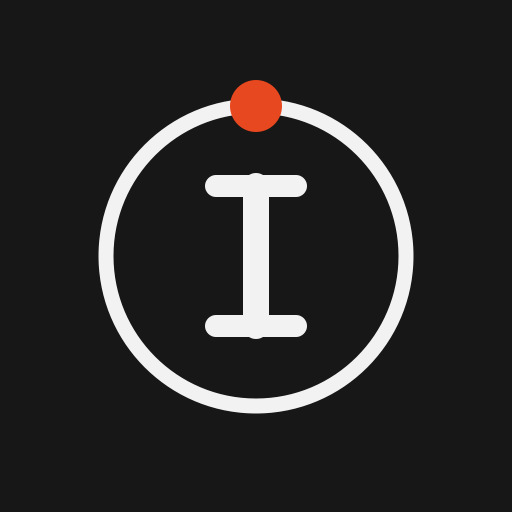
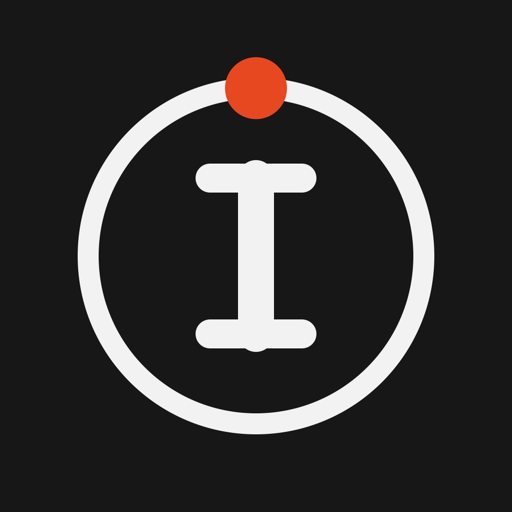
fix(mobile): ikon aplikasi + perbaikan tata letak yang terpotong
Ikon
- Ikon peluncur Android masih bawaan Capacitor (latar putih). Diganti set
  lengkap dari desain/ikon-*.svg: lima kepadatan untuk ic_launcher dan
  ic_launcher_round (48-192 px) plus ic_launcher_foreground (108-432 px)
- Adaptive icon: latar jadi #171717, lapisan depan muat di zona aman 66,7%
  sehingga tidak terpotong peluncur berbentuk apa pun
- Vektor bawaan Capacitor dihapus; ikon PWA, apple-touch-icon, dan favicon
  Next diregenerasi dari master yang sama

Tata letak terpotong
- Bilah atas setinggi 80 px sementara ruang yang disediakan hanya 71 px,
  jadi bagian atas halaman tersembunyi di baliknya. Tingginya sekarang
  dipatok lewat --bilah (56 px ponsel, 72 px desktop) dan ruangnya memakai
  nilai yang sama, plus env(safe-area-inset-top) untuk ponsel berponi
- Halaman meluber ke samping di ponsel: dokumen 587 px pada layar 390 px.
  Sebabnya anak grid punya min-width auto, sehingga kolom melebar mengikuti
  grafik tren yang min-w-[520px] dan overflow-x-auto di dalamnya tidak pernah
  menggulir. Sebelas kolom dan enam section diberi min-w-0
- Bilah ukur w-24 mengecil jadi w-14 di layar sempit; grafik turun ke
  min-w-[460px]

Terverifikasi pada 390 px: sebelas rute tanpa luberan dan tanpa bagian atas
tertutup; /pemkot juga bersih di 320 px. APK dibangun ulang, 7,7 MB.

Claude-Session: https://claude.ai/code/session_01UByx4z4AmXC2FbrQxF1zhg

diff --git a/src/app/(utama)/pemkot/page.tsx b/src/app/(utama)/pemkot/page.tsx
@@ -136,7 +136,7 @@ export default function HalamanPemkot() {
         </div>
 
         <div className="grid gap-10 lg:grid-cols-[1.35fr_1fr]">
-          <section className="flex flex-col gap-4">
+          <section className="flex min-w-0 flex-col gap-4">
             <JudulBagian
               eyebrow="Sebaran geografis"
               judul="Peta pembinaan per kecamatan"
@@ -151,8 +151,8 @@ export default function HalamanPemkot() {
             </CatatanDemo>
           </section>
 
-          <div className="flex flex-col gap-10">
-            <section className="flex flex-col gap-4">
+          <div className="flex min-w-0 flex-col gap-10">
+            <section className="flex min-w-0 flex-col gap-4">
               <JudulBagian
                 eyebrow="Peringkat"
                 judul="Delapan kecamatan teratas"
@@ -179,7 +179,7 @@ export default function HalamanPemkot() {
               </Kartu>
             </section>
 
-            <section className="flex flex-col gap-4">
+            <section className="flex min-w-0 flex-col gap-4">
               <JudulBagian eyebrow="Kohort" judul="Jenjang usia" />
               <div className="grid grid-cols-3 gap-px border border-white/10 bg-white/10">
                 {kohort.map(({ g, n, putri }) => (
@@ -206,7 +206,7 @@ export default function HalamanPemkot() {
         </div>
 
         <div className="grid gap-10 lg:grid-cols-2">
-          <section className="flex flex-col gap-4">
+          <section className="flex min-w-0 flex-col gap-4">
             <JudulBagian
               eyebrow="Radar bakat"
               judul="Laju perbaikan tercepat"
@@ -253,7 +253,7 @@ export default function HalamanPemkot() {
             </CatatanDemo>
           </section>
 
-          <section className="flex flex-col gap-4">
+          <section className="flex min-w-0 flex-col gap-4">
             <JudulBagian
               eyebrow="Perguruan"
               judul="Medali bersistem per perguruan"
@@ -278,7 +278,7 @@ export default function HalamanPemkot() {
                       {p.jumlahAnggota} anggota
                     </span>
                   </div>
-                  <div className="h-1.5 w-24 bg-ink-500">
+                  <div className="h-1.5 w-14 shrink-0 bg-ink-500 sm:w-24">
                     <div
                       className="h-full bg-aksen"
                       style={{
@@ -295,9 +295,9 @@ export default function HalamanPemkot() {
           </section>
         </div>
 
-        <section className="flex flex-col gap-4">
+        <section className="flex min-w-0 flex-col gap-4">
           <JudulBagian eyebrow="Penyelenggaraan" judul="Event tahun berjalan" />
-          <Kartu className="hidden overflow-x-auto sm:block">
+          <Kartu className="hidden min-w-0 overflow-x-auto sm:block">
             <table className="w-full min-w-[640px] text-left">
               <thead>
                 <tr className="border-b border-white/10">

diff --git a/src/app/(utama)/panitia/page.tsx b/src/app/(utama)/panitia/page.tsx
@@ -128,7 +128,7 @@ export default function HalamanPanitia() {
       </header>
 
       <div className="inner grid gap-10 lg:grid-cols-[1.4fr_1fr]">
-        <div className="flex flex-col gap-8">
+        <div className="flex min-w-0 flex-col gap-8">
           <Kartu
             warna={luring ? "bg-amber-400/5" : "bg-ink-700"}
             className={`flex flex-wrap items-center justify-between gap-3 p-4 ${luring ? "border-amber-400/40" : ""}`}
@@ -178,7 +178,7 @@ export default function HalamanPanitia() {
             ))}
           </div>
 
-          <section className="flex flex-col gap-4">
+          <section className="flex min-w-0 flex-col gap-4">
             <JudulBagian
               eyebrow={labelKategori(arena.kategoriAktifId)}
               judul={`Antrian ${arena.nama}`}
@@ -235,8 +235,8 @@ export default function HalamanPanitia() {
           </section>
         </div>
 
-        <div className="flex flex-col gap-8">
-          <section className="flex flex-col gap-4">
+        <div className="flex min-w-0 flex-col gap-8">
+          <section className="flex min-w-0 flex-col gap-4">
             <JudulBagian eyebrow="Semua matras" judul="Sekilas arena" />
             <Kartu className="divide-y divide-white/10">
               {ARENA.map((a) => {
@@ -285,7 +285,7 @@ export default function HalamanPanitia() {
             </Kartu>
           </section>
 
-          <section className="flex flex-col gap-4">
+          <section className="flex min-w-0 flex-col gap-4">
             <JudulBagian eyebrow="Rundown" judul="Jadwal hari ini" />
             <Kartu className="divide-y divide-white/10">
               {ARENA.flatMap((a) =>
@@ -311,7 +311,7 @@ export default function HalamanPanitia() {
             </Kartu>
           </section>
 
-          <section className="flex flex-col gap-4">
+          <section className="flex min-w-0 flex-col gap-4">
             <JudulBagian eyebrow="Meja pendaftaran" judul="Check-in" />
             <div className="grid grid-cols-2 gap-px border border-white/10 bg-white/10">
               <div className="bg-ink-700 p-4">
@@ -340,7 +340,7 @@ export default function HalamanPanitia() {
                   <span className="min-w-0 flex-1 truncate text-[12px] text-paper-dim">
                     {labelKategori(r.kId)}
                   </span>
-                  <div className="h-1.5 w-24 bg-ink-500">
+                  <div className="h-1.5 w-14 shrink-0 bg-ink-500 sm:w-24">
                     <div
                       className="h-full bg-emerald-400"
                       style={{ width: `${(r.hadir / r.total) * 100}%` }}

diff --git a/src/app/(utama)/perguruan/page.tsx b/src/app/(utama)/perguruan/page.tsx
@@ -77,7 +77,7 @@ export default function HalamanPerguruan() {
       </header>
 
       <div className="inner grid gap-10 lg:grid-cols-[1fr_1.6fr]">
-        <div className="flex flex-col gap-10">
+        <div className="flex min-w-0 flex-col gap-10">
           <div className="grid grid-cols-3 gap-px border border-white/10 bg-white/10">
             <div className="bg-ink-700 p-4">
               <Statistik
@@ -103,7 +103,7 @@ export default function HalamanPerguruan() {
             </div>
           </div>
 
-          <section className="flex flex-col gap-4">
+          <section className="flex min-w-0 flex-col gap-4">
             <JudulBagian
               eyebrow="Prestasi perguruan"
               judul="Medali bersistem"
@@ -158,7 +158,7 @@ export default function HalamanPerguruan() {
             </Kartu>
           </section>
 
-          <section className="flex flex-col gap-4">
+          <section className="flex min-w-0 flex-col gap-4">
             <JudulBagian
               eyebrow="Komposisi binaan"
               judul="Kelompok umur & asal"
@@ -201,8 +201,8 @@ export default function HalamanPerguruan() {
           </section>
         </div>
 
-        <div className="flex flex-col gap-10">
-          <section className="flex flex-col gap-4">
+        <div className="flex min-w-0 flex-col gap-10">
+          <section className="flex min-w-0 flex-col gap-4">
             <JudulBagian
               eyebrow="Pendaftaran kolektif"
               judul="Daftarkan binaan ke event"
@@ -224,7 +224,7 @@ export default function HalamanPerguruan() {
             </Kartu>
           </section>
 
-          <section className="flex flex-col gap-4">
+          <section className="flex min-w-0 flex-col gap-4">
             <JudulBagian
               eyebrow="Binaan"
               judul="Anggota aktif"
@@ -268,7 +268,7 @@ export default function HalamanPerguruan() {
             </Kartu>
           </section>
 
-          <section className="flex flex-col gap-4">
+          <section className="flex min-w-0 flex-col gap-4">
             <JudulBagian
               eyebrow="Event aktif"
               judul="Binaan yang terdaftar"
@@ -310,7 +310,7 @@ export default function HalamanPerguruan() {
             </Kartu>
           </section>
 
-          <section className="flex flex-col gap-4">
+          <section className="flex min-w-0 flex-col gap-4">
             <JudulBagian
               eyebrow="Direktori kota"
               judul="Perguruan lain di Palembang"

diff --git a/src/app/(utama)/klasemen/page.tsx b/src/app/(utama)/klasemen/page.tsx
@@ -170,8 +170,8 @@ export default function HalamanKlasemen() {
         </div>
 
         <div className="grid gap-8 lg:grid-cols-[1.6fr_1fr]">
-          <div className="flex flex-col gap-6">
-            <Kartu className="hidden overflow-x-auto sm:block">
+          <div className="flex min-w-0 flex-col gap-6">
+            <Kartu className="hidden min-w-0 overflow-x-auto sm:block">
               <table className="w-full min-w-[560px] text-left">
                 <thead>
                   <tr className="border-b border-white/10">
@@ -277,8 +277,8 @@ export default function HalamanKlasemen() {
             </p>
           </div>
 
-          <div className="flex flex-col gap-8">
-            <section className="flex flex-col gap-4">
+          <div className="flex min-w-0 flex-col gap-8">
+            <section className="flex min-w-0 flex-col gap-4">
               <JudulBagian eyebrow="Atlet" judul="Peraih medali terbanyak" />
               <Kartu className="divide-y divide-white/10">
                 {peraih.map(({ a, emas, total }, i) => (
@@ -309,7 +309,7 @@ export default function HalamanKlasemen() {
                 ))}
               </Kartu>
             </section>
-            <section className="flex flex-col gap-4">
+            <section className="flex min-w-0 flex-col gap-4">
               <JudulBagian eyebrow="Kategori" judul="Medali per kategori" />
               <Kartu className="divide-y divide-white/10">
                 {perKategori.map(({ kId, n }) => (
@@ -327,7 +327,7 @@ export default function HalamanKlasemen() {
                             : ""}
                       </span>
                     </div>
-                    <div className="h-1.5 w-20 bg-ink-500">
+                    <div className="h-1.5 w-12 shrink-0 bg-ink-500 sm:w-20">
                       <div
                         className="h-full bg-aksen"
                         style={{ width: `${(n / perKategori[0].n) * 100}%` }}
@@ -342,7 +342,7 @@ export default function HalamanKlasemen() {
             </section>
           </div>
         </div>
-        <section className="flex flex-col gap-4">
+        <section className="flex min-w-0 flex-col gap-4">
           <JudulBagian
             eyebrow="Dari matras"
             judul="Cuplikan kategori"

diff --git a/src/components/ProfilAtlet.tsx b/src/components/ProfilAtlet.tsx
@@ -181,7 +181,7 @@ export function ProfilAtlet({
   return (
     <main className="flex flex-col gap-10 pb-12">
       <div className="inner grid gap-10 pt-10 lg:grid-cols-[minmax(0,1fr)_minmax(0,1.5fr)]">
-        <div className="flex flex-col gap-8">
+        <div className="flex min-w-0 flex-col gap-8">
           {antrianSaya && arena && eventArena ? (
             <div
               className={`border-2 border-aksen bg-aksen/10 p-6 ${antrianSaya.status === "dipanggil" ? "animate-panggil" : ""}`}
@@ -432,7 +432,7 @@ export function ProfilAtlet({
           </section>
         </div>
 
-        <div className="flex flex-col gap-8">
+        <div className="flex min-w-0 flex-col gap-8">
           <section className="flex flex-col gap-5">
             <JudulBagian eyebrow="Rapor" judul="Tren nilai aspek inti" />
             <Kartu className="p-6">

diff --git a/src/app/globals.css b/src/app/globals.css
@@ -263,3 +263,30 @@ body {
 @media (prefers-reduced-motion: reduce) {
   .footage-gerak { animation: none !important; }
 }
+
+/*
+ * Tinggi bilah atas dipatok, bukan mengikuti isi — sebelumnya bilah 80px
+ * sementara ruang yang disediakan 71px, sehingga bagian atas halaman
+ * tersembunyi di baliknya. Nilai yang sama dipakai bilah dan ruangnya,
+ * plus safe-area untuk ponsel berponi.
+ */
+:root {
+  --bilah: 56px;
+}
+@media (min-width: 768px) {
+  :root { --bilah: 72px; }
+}
+
+.bilah-atas {
+  height: calc(var(--bilah) + env(safe-area-inset-top));
+  padding-top: env(safe-area-inset-top);
+}
+.ruang-bilah {
+  padding-top: calc(var(--bilah) + env(safe-area-inset-top));
+}
+.ruang-nav {
+  padding-bottom: calc(70px + env(safe-area-inset-bottom));
+}
+@media (min-width: 768px) {
+  .ruang-nav { padding-bottom: 0; }
+}

diff --git a/src/components/DemoBar.tsx b/src/components/DemoBar.tsx
@@ -33,8 +33,8 @@ export function DemoBar() {
      * bilah itu sendiri, bukan setinggi layar.
      */
     <>
-      <header className="fixed inset-x-0 top-0 z-50 border-b border-white/10 bg-ink-900/90 backdrop-blur-md">
-        <div className="mx-auto flex max-w-[1440px] items-center gap-4 px-[18px] py-3 sm:px-8 sm:py-[18px]">
+      <header className="bilah-atas fixed inset-x-0 top-0 z-50 border-b border-white/10 bg-ink-900/90 backdrop-blur-md">
+        <div className="mx-auto flex h-full max-w-[1440px] items-center gap-4 px-[18px] sm:px-8">
           <Link
             href="/"
             className="brand flex shrink-0 items-center gap-2.5 text-paper focus-visible:outline-2 focus-visible:outline-offset-4 focus-visible:outline-aksen"

diff --git a/src/app/(utama)/juri/page.tsx b/src/app/(utama)/juri/page.tsx
@@ -142,7 +142,7 @@ export default function HalamanJuri() {
       </header>
 
       <div className="inner grid gap-10 lg:grid-cols-[1fr_1.4fr]">
-        <div className="flex flex-col gap-8">
+        <div className="flex min-w-0 flex-col gap-8">
           <div className="flex gap-2">
             {ARENA.map((a) => (
               <button
@@ -290,7 +290,7 @@ export default function HalamanJuri() {
           </section>
         </div>
 
-        <div className="flex flex-col gap-8">
+        <div className="flex min-w-0 flex-col gap-8">
           {tampil && atlet ? (
             sudahKunci(juriId) ? (
               <Kartu className="p-6">

diff --git a/src/components/charts.tsx b/src/components/charts.tsx
@@ -90,10 +90,10 @@ export function GrafikTrenInti({ data }: { data: readonly TrenTitik[] }) {
 
   return (
     <figure className="m-0 flex flex-col gap-3">
-      <div className="overflow-x-auto">
+      <div className="-mx-2 overflow-x-auto px-2">
         <svg
           viewBox={`0 0 ${W} ${H}`}
-          className="h-auto w-full min-w-[520px]"
+          className="h-auto w-full min-w-[460px]"
           role="img"
           aria-label="Tren nilai tiga aspek inti pada event-event terakhir"
         >

diff --git a/src/app/(utama)/event/[id]/hasil/page.tsx b/src/app/(utama)/event/[id]/hasil/page.tsx
@@ -92,7 +92,7 @@ export default function HalamanHasil({
               </span>
             }
           />
-          <Kartu className="hidden overflow-x-auto sm:block">
+          <Kartu className="hidden min-w-0 overflow-x-auto sm:block">
             <table className="w-full min-w-[760px] text-left">
               <thead>
                 <tr className="border-b border-white/10">

diff --git a/src/app/(utama)/layout.tsx b/src/app/(utama)/layout.tsx
@@ -14,7 +14,7 @@ export default function LayoutUtama({
       <SmoothScroll />
       <Perangkat />
       <DemoBar />
-      <div className="pt-[62px] pb-[70px] sm:pt-[71px] md:pb-0">{children}</div>
+      <div className="ruang-bilah ruang-nav">{children}</div>
       <NavBawah />
     </>
   );
